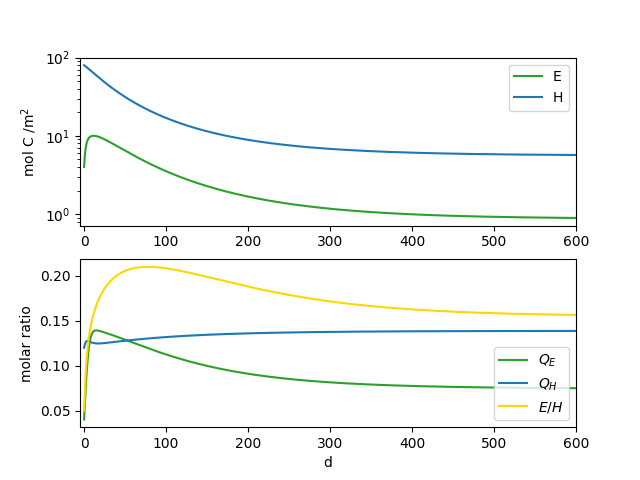
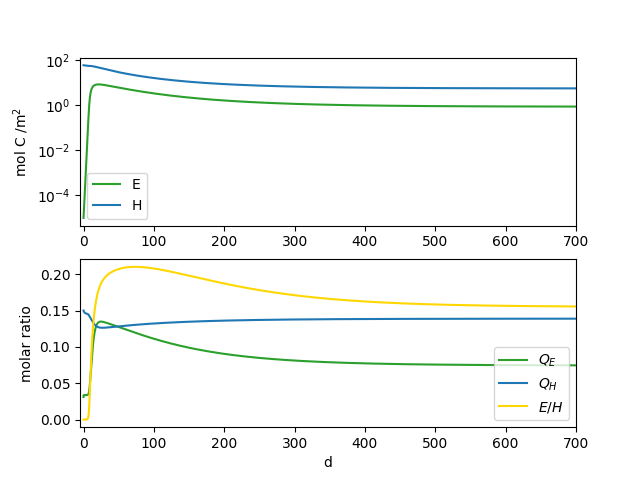
Minor playing around

diff --git a/dynasymV203 copy.py b/dynasymV203 copy.py
@@ -4,31 +4,31 @@ import numpy as np
 
 
 def makeCons(changes=[]):
-    dict = {"s": 1, "umax" : 0.07, "KN": 0.2, "b": 2,"QHmin":0.1125, "QHmax":0.15, "QEmin": 0.03, "mE": 0.3, "mH": 0.03}
+    dict = {"s": 1, "umax" : 0.07, "KN": 0.2, "b": 1,"QHmin":0.1125, "QHmax":0.15, "QEmin": 0.03, "mE": 0.3, "mH": 0.03}
 
     for change in changes:
         dict[change[0]] = change[1]
     return dict
 
 
-def makeFuncs(t, y, cD, rhoDOC, rhoDIC, rhoDON):  
-    E, H, QE, QH = y[0], y[1], y[2], y[3]
+def makeFuncs(t, y, cD, rhoDOC,rhoDON):  
+    L, H, QE, QH = y[0], y[1], y[2], y[3]
 
     eH  = cD["s"]*(1-cD["QHmin"]/QH) 
     eE  = (1-cD["QEmin"]/QE)
     g = cD["b"]*(1-eE)*(1-eH)
 
-    n = g*E/(H-g*E) 
+    n = g*L/(1-g*L) 
 
     mH = cD["mH"]
     mE = cD["mE"]
 
     rhoFood  = rhoDOC(t,y,cD)         
-    rhoResp  = cD["b"]*(1-eH)*(1+n*E/H)*rhoFood
-    rhoPhoto = n*(rhoFood + 1/(1-eH)*rhoDIC(t,y,cD))
+    rhoResp  = cD["b"]*(1-eH)*(1+n)*rhoFood
+    rhoPhoto = n*(rhoFood)
 
-    pH = eH*(1+n*E/H)*rhoFood
-    pE = eE*rhoResp*H/E
+    pH = eH*(1+n)*rhoFood
+    pE = eE*rhoResp
                                              
     uH = rhoDON(t,y,cD) * (1-((QH-0.1125)/(0.15-0.1125))**2) 
     uE = cD["umax"] *(QH-cD["QHmin"])/( cD["KN"] + (QH-cD["QHmin"]) )           
@@ -36,26 +36,27 @@ def makeFuncs(t, y, cD, rhoDOC, rhoDIC, rhoDON):
     return pH, pE, mH, mE, uH, uE, n, rhoFood, rhoResp, rhoPhoto   
 
 
-def endo(t, y, cD, rhoDOC, rhoDIC, rhoDON):
-    E, H, QE, QH = y[0], y[1], y[2], y[3]
-    pH, pE, mH, mE, uH, uE, n, rhoFood, rhoResp, rhoPhoto = makeFuncs(t,y,cD,rhoDOC,rhoDIC,rhoDON)
+def endo(t, y, cD, rhoDOC, rhoDON):
+    L, H, QE, QH = y
+    pH, pE, mH, mE, uH, uE, n, rhoFood, rhoResp, rhoPhoto = makeFuncs(t,y,cD,rhoDOC,rhoDON)
 
-    dE = pE*E - mE*E 
+    dL = pE - mE*L - pH*L + mH*L
     dH = pH*H - mH*H
 
-    dQE = uE - pE*QE           
-    dQH = uH - uE*E/H - pH*QH # + mH*QH *(1-(QH-cD["QHmin"])/(cD["QHmax"]-cD["QHmin"])) 
+    dQE = uE - pE*QE/L           
+    dQH = uH - uE*L - pH*QH 
 
-    return [dE,dH,dQE,dQH]
+    return [dL,dH,dQE,dQH]
 
 
-def _plotLimFac(sol, cD, xSpan, rhoDOC, rhoDIC, rhoDON):
-    pH, pE, mH, mE, uH, uE, n, rhoFood, rhoResp, rhoPhoto = makeFuncs(sol.t,sol.y,cD,rhoDOC,rhoDIC,rhoDON)
+def _plotLimFac(sol, cD, xSpan, rhoDOC, rhoDON):
+    L, H, QE, QH = sol.y
+    pH, pE, mH, mE, uH, uE, n, rhoFood, rhoResp, rhoPhoto = makeFuncs(sol.t,sol.y,cD,rhoDOC,rhoDON)
     fig, (ax1,ax2,ax3) = plt.subplots(nrows=3, ncols=1)
 
     ax1.plot(sol.t,uE,"g--", label=r"$u_E$")
-    ax1.plot(sol.t,uE*sol.y[0]/sol.y[1],"g", label=r"$u_E\frac{E}{H}$")
-    ax1.plot(sol.t,uH+0*mH*sol.y[3] *(1-(sol.y[3]-cD["QHmin"])/(cD["QHmax"]-cD["QHmin"])),"b--", label="$u_H$")
+    ax1.plot(sol.t,uE*L,"g", label=r"$u_E\frac{E}{H}$")
+    ax1.plot(sol.t,uH,"b--", label="$u_H$")
     ax1.plot(sol.t,pH*sol.y[3],"b", label=r"$\mu_HQ_H$")
 
     
@@ -65,9 +66,8 @@ def _plotLimFac(sol, cD, xSpan, rhoDOC, rhoDIC, rhoDON):
     ax2.plot(sol.t, rhoFood,"k", label=r"$\rho_{Food}$")
 
     ax3.plot(sol.t, rhoResp,"b", label=r"$\rho_{resp}$")
-    ax3.plot(sol.t,mE*np.ones(len(sol.t)),"r--", label="$m_E$")
-    #ax3.plot(sol.t,n,"k--",label=r"$\eta$")
-    ax3.plot(sol.t,pE,"g", label="$p_E$")
+    ax3.plot(sol.t,pH+mE*np.ones(len(sol.t)),"r--", label="$m_E$")
+    ax3.plot(sol.t,pE/L+mH,"g", label="$p_E$")
 
     ax1.set_title("") 
     ax1.set_ylabel(r"days$^{-1}$")
@@ -79,8 +79,8 @@ def _plotLimFac(sol, cD, xSpan, rhoDOC, rhoDIC, rhoDON):
     ax2.legend()
     ax3.legend()
     
-def _plotFitness(sol, cD, xSpant, rhoDOC, rhoDIC, rhoDON):
-    pH, pE, mH, mE, uH, uE, n, rhoFood, rhoResp, rhoPhoto = makeFuncs(sol.t,sol.y,cD,rhoDOC,rhoDIC,rhoDON)
+def _plotFitness(sol, cD, xSpant, rhoDOC, rhoDON):
+    pH, pE, mH, mE, uH, uE, n, rhoFood, rhoResp, rhoPhoto = makeFuncs(sol.t,sol.y,cD,rhoDOC,rhoDON)
     fig, ax =plt.figure(), plt.subplot()
 
     ax.plot(sol.t, pH-mH, "C0", label="H fitness")
@@ -92,12 +92,12 @@ def _plotFitness(sol, cD, xSpant, rhoDOC, rhoDIC, rhoDON):
     ax.legend()
 
 
-def EtoHDiv(t,y,cD,rhoDOC,rhoDIC,rhoDON):
-    return y[0]/y[1] - 1
+def EtoHDiv(t,y,cD,rhoDOC,rhoDON):
+    return y[0] - 1
 EtoHDiv.terminal = True
 
-def extinctE(t,y,cD,rhoDOC,rhoDIC,rhoDON):
-    return y[0]-1e-10
+def extinctE(t,y,cD,rhoDOC,rhoDON):
+    return y[0]*y[1]-1e-10
 extinctE.terminal = True
 
 
@@ -110,17 +110,14 @@ if __name__ == "__main__":
     def rhoDOC(t,y,cD):
         E, H, QE, QH = y[0], y[1], y[2], y[3]
         return 0.03 *4* (1-H/166)
-    def rhoDIC(t,y,cD):
-        E, H, QE, QH = y[0], y[1], y[2], y[3]
-        return cD["mH"]*0
     def rhoDON(t,y,cD):
         E, H, QE, QH = y[0], y[1], y[2], y[3]
         return rhoDOC(t,y,cD) * 0.15 + cD["mH"]*0
         
-    y0 = [1, 60, 0.04, 0.12]
+    y0 = [0.01, 60, 0.04, 0.12]
     tEnd = 600
-    cD = makeCons([("s",1),("KN",0.05),("KE",0.0),("umax", 0.06),("mE",0.4),("mH",0.03),("QHmin",0.1125),("QEmin",0.03)])
-    sol = integ.solve_ivp(endo, y0=y0, t_span=[0,tEnd], args=(cD,rhoDOC,rhoDIC,rhoDON), dense_output=False, method="Radau", max_step = np.inf, rtol=1e-8, atol = 1e-8, events=[EtoHDiv,extinctE])
+    cD = makeCons([("s",1),("b",2),("KN",0.05),("KL",0.022),("umax", 0.07),("mE",0.4),("mH",0.03),("QHmin",0.1125),("QEmin",0.03)])
+    sol = integ.solve_ivp(endo, y0=y0, t_span=[0,tEnd], args=(cD,rhoDOC,rhoDON), dense_output=False, method="Radau", max_step = np.inf, rtol=1e-8, atol = 1e-8, events=[EtoHDiv,extinctE])
     print(sol)
 
 
@@ -131,7 +128,7 @@ if __name__ == "__main__":
         xSpan = [0,sol.t[-1]]
     
 
-    ax1.semilogy(sol.t,sol.y[0],"C2",label="E")
+    ax1.semilogy(sol.t,sol.y[0]*sol.y[1],"C2",label="E")
     ax1.semilogy(sol.t,sol.y[1],"C0",label="H")
 
     #hTest = y0[1]*np.exp(-cD["mH"]*sol.t)    
@@ -140,7 +137,7 @@ if __name__ == "__main__":
    
     ax2.plot(sol.t,sol.y[2],"C2", label = "$Q_E$")
     ax2.plot(sol.t,sol.y[3],"C0", label = "$Q_H$")
-    ax2.plot(sol.t,sol.y[0]/sol.y[1],"gold", label = "$E/H$")
+    ax2.plot(sol.t,sol.y[0],"gold", label = "$E/H$")
 
     #ax1.set_title(r"$\rho_{max}$ =" + f"{cD["rho"]}, $Q_F$ = {cD["QFood"]} ") 
     ax1.set_ylabel(r"mol C /m$^2$")
@@ -153,6 +150,6 @@ if __name__ == "__main__":
     ax1.legend()
     ax2.legend()
 
-    _plotLimFac(sol,cD,xSpan,rhoDOC,rhoDIC,rhoDON)
-    #_plotFitness(sol,cD,xSpan,rhoDOC,rhoDIC,rhoDON)
+    _plotLimFac(sol,cD,xSpan,rhoDOC,rhoDON)
+    #_plotFitness(sol,cD,xSpan,rhoDOC,rhoDON)
     plt.show()

diff --git a/dynasymV203.py b/dynasymV203.py
@@ -32,7 +32,7 @@ def makeFuncs(t, y, cD, rhoDOC, rhoDIC, rhoDON):
     pE = eE*rhoResp
                                              
     uH = rhoDON(t,y,cD) * (1-((QH-0.1125)/(0.15-0.1125))**2) 
-    uE = cD["umax"] *(QH-cD["QHmin"])/(cD["QHmax"]-cD["QHmin"]) #/( cD["KN"] + (QH-cD["QHmin"]) )           
+    uE = cD["umax"] *H*(QH-cD["QHmin"])/( cD["KN"] + H*(QH-cD["QHmin"]) )           
     
     return pH, pE, mH, mE, uH, uE, n, rhoFood, rhoResp, rhoPhoto   
 
@@ -65,13 +65,15 @@ def _plotLimFac(sol, cD, xSpan, rhoDOC, rhoDIC, rhoDON):
     ax2.plot(sol.t, rhoPhoto,"g", label=r"$\rho_{photo}$")
     ax2.plot(sol.t, rhoFood,"k", label=r"$\rho_{Food}$")
 
-    ax3.plot(sol.t, rhoResp,"b", label=r"$\rho_{resp}$")
+    ax3.plot(sol.t, rhoResp,"b", label=r"$\rho_{CO_2}$")
     ax3.plot(sol.t,mE*np.ones(len(sol.t)),"r--", label="$m_E$")
     #ax3.plot(sol.t,n,"k--",label=r"$\eta$")
-    ax3.plot(sol.t,pE,"g", label="$p_E$")
+    ax3.plot(sol.t,pE,"g", label=r"$\mu_E$")
+    ax3.set_ylim(bottom=-0.3,top=max(pE)+0.5)
 
     ax1.set_title("") 
-    ax1.set_ylabel(r"days$^{-1}$")
+    fig.supylabel(r"days$^{-1}$")
+
     ax2.set_xlabel("days")
     ax1.set_xlim(xSpan)
     ax2.set_xlim(xSpan)
@@ -113,14 +115,14 @@ if __name__ == "__main__":
         return 0.03 *4* (1-H/166)
     def rhoDIC(t,y,cD):
         E, H, QE, QH = y[0], y[1], y[2], y[3]
-        return cD["mH"]*0
+        return cD["mH"]*3
     def rhoDON(t,y,cD):
         E, H, QE, QH = y[0], y[1], y[2], y[3]
-        return rhoDOC(t,y,cD) * 0.15 + cD["mH"]*0.5
+        return rhoDOC(t,y,cD) * 0.15 + cD["mH"]*0.0
         
-    y0 = [1e-5, 60, 0.031, 0.15]
-    tEnd = 1200
-    cD = makeCons([("s",1),("KN",0.0001),("KE",0.1),("umax", 0.01),("mE",0.2),("mH",0.03),("QHmin",0.1125),("QEmin",0.03)])
+    y0 = [1e-5, 40, 0.05, 0.14]
+    tEnd = 400
+    cD = makeCons([("s",1),("KN",0.1),("KE",0.2),("umax", 0.07),("mE",0.4),("mH",0.03),("QHmin",0.1125),("QEmin",0.03)])
     sol = integ.solve_ivp(endo, y0=y0, t_span=[0,tEnd], args=(cD,rhoDOC,rhoDIC,rhoDON), dense_output=False, method="Radau", max_step = np.inf, rtol=1e-8, atol = 1e-8, events=[EtoHDiv,extinctE])
     print(sol)
 

diff --git a/dynasymV203CarbonPool.py b/dynasymV203CarbonPool.py
@@ -30,7 +30,7 @@ def makeFuncs(t, y, cD, rhoDOC, rhoDON):
     rhoResp = (1-eH)*(rhoDOC(t,y,cD)+rhoPhoto)*cD["DIC"]
                                              
     uH = rhoDON(t,y,cD) * (1-((QH-0.1125)/(0.15-0.1125))**2) 
-    uE = cD["umax"] *(QH-cD["QHmin"])/( cD["KN"] + (QH-cD["QHmin"]) )           
+    uE = cD["umax"] *H*(QH-cD["QHmin"])/( cD["KN"] + H*(QH-cD["QHmin"]) )           
     
     return pH, pE, mH, mE, uH, uE, rhoResp, rhoCO2   
 
@@ -45,7 +45,7 @@ def endo(t, y, cD, rhoDOC,rhoDON):
     dQE = uE - pE*QE           
     dQH = uH - uE*E/H - pH*QH
 
-    dC  = rhoResp - rhoCO2*E/H - cD["d"]*H**(-1/3)*C
+    dC  = rhoResp*H - rhoCO2*E - cD["d"]*H**(2/3)*C
 
     return [dE,dH,dQE,dQH,dC]
 
@@ -105,7 +105,7 @@ if __name__ == "__main__":
     
     y0 = [1, 60, 0.04, 0.12, 4]
     tEnd = 600
-    cD = makeCons([("s",1),("pmax",1), ("KCO_2", 0.4),("KN",0.03),("umax", 0.05),("mE",0.4),("mH",0.03)])
+    cD = makeCons([("s",1),("pmax",2), ("KCO_2", 10),("KN",0.5),("umax", 0.05),("mE",0.1),("mH",0.03)])
     sol = integ.solve_ivp(endo, y0=y0, t_span=[0,tEnd], args=(cD,rhoDOC,rhoDON), dense_output=False, method="Radau", max_step = np.inf, rtol=1e-8, atol = 1e-8, events=[EtoHDiv,extinctE])
     print(sol)
 

diff --git a/analysis.py b/analysis.py
@@ -47,7 +47,7 @@ def plotKE(rhoDOC,rhoDIC,rhoDON,cons):
 
 
 def plotTempBifur(rhoDOC,rhoDIC,rhoDON,cons):
-    paraList, y = simpleBifur("s",[0.5,3],rhoDOC,rhoDIC,rhoDON,cons=cons)
+    paraList, y = simpleBifur("s",[0.66,3],rhoDOC,rhoDIC,rhoDON,cons=cons)
     x = np.flip(1/paraList) # np.linspace(0,len(paraList),len(paraList)) - len(paraList)*(1-0.5)/(1.5-0.5)
 
     fig, ax = plt.figure(), plt.subplot()
@@ -75,10 +75,10 @@ if __name__ == "__main__":
         E, H, QE, QH = y[0], y[1], y[2], y[3]
         return rhoDOC(t,y,cD) * 0.15 + cD["mH"]*0.0
     
-    cons =[("umax",0.07),("KN",0.2),("KE",0.2),("mE",0.4),("mH",0.03)]
+    cons = [("s",1),("KN",0.2),("KE",0.2),("umax", 0.07),("mE",0.4),("mH",0.03),("QHmin",0.1125),("QEmin",0.03)]
 
 
-    #plotUmax(rhoDOC,rhoDIC,rhoDON,cons)
-    #plotKE(rhoDOC,rhoDIC,rhoDON,cons)
+    plotUmax(rhoDOC,rhoDIC,rhoDON,cons)
+    plotKE(rhoDOC,rhoDIC,rhoDON,cons)
     plotTempBifur(rhoDOC,rhoDIC,rhoDON,cons)
     plt.show()
